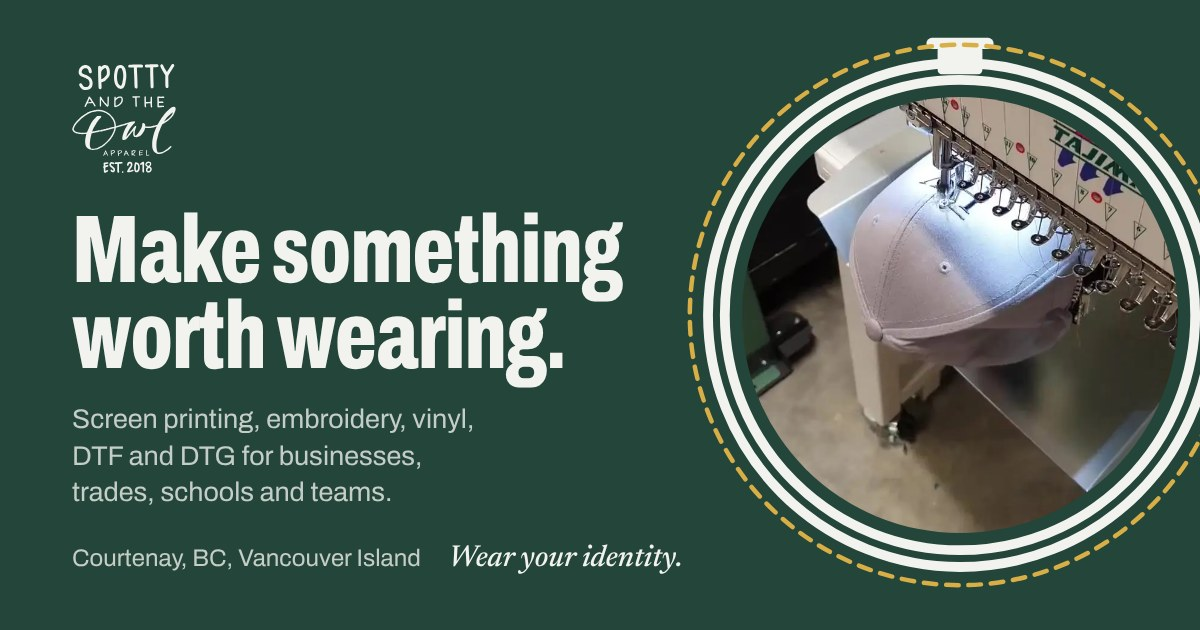
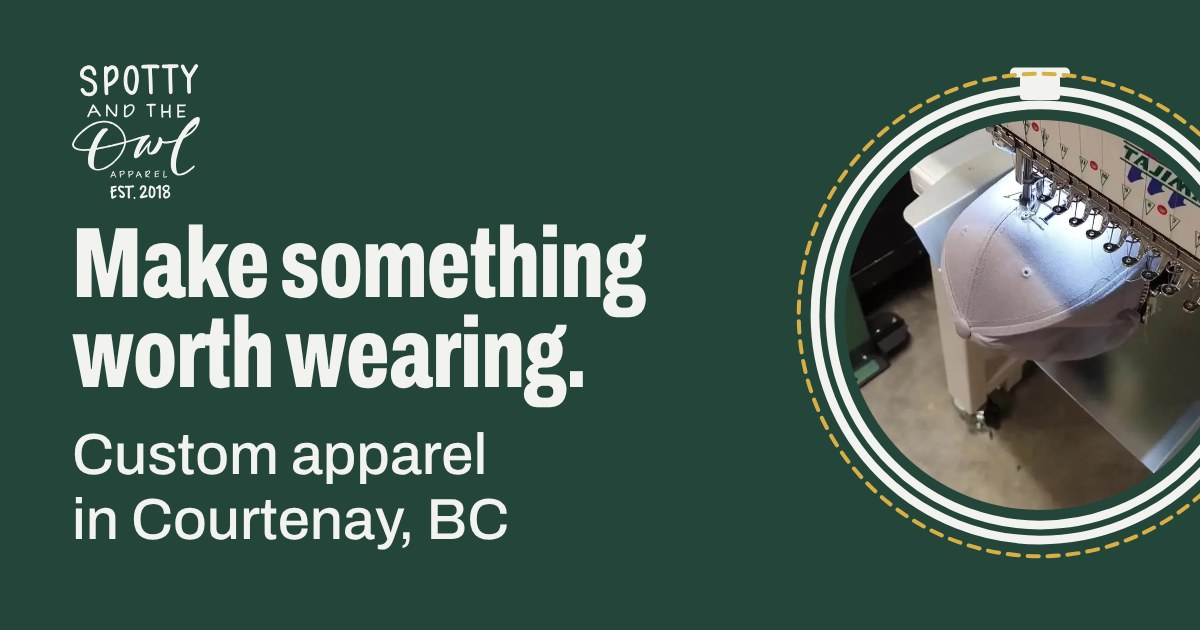
Share card: bigger, shorter text so it reads at preview size
Option A: the headline plus "Custom apparel in Courtenay, BC" at 58px
(was a 27px sentence and a 24px footer line, which shrank to 6-11px in
feeds and text messages). Image version bumped to v=2 on every page so
apps fetch the new card. README notes the 42px minimum.

Claude-Session: https://claude.ai/code/session_01TeP7oMVvDquNMcumT4gy2c

diff --git a/scripts/share-card.html b/scripts/share-card.html
@@ -1,7 +1,7 @@
 <!doctype html>
 <html lang="en">
 <head>
-<!-- Source for assets/share-card.jpg. Open through a local server, set the browser window to 1200 x 630, screenshot, save as JPEG. See README "Share card". -->
+<!-- Source for assets/share-card.jpg. Open through a local server, set the browser window to 1200 x 630, screenshot, save as JPEG. See README "Share card". Keep every line of text at 42px or larger: previews show the card at about 300 to 500px wide. -->
 <meta charset="utf-8">
 <style>
   @font-face { font-family: "Archivo"; src: url("../assets/fonts/archivo.woff2") format("woff2"); font-weight: 100 900; font-stretch: 62% 125%; }
@@ -26,22 +26,19 @@
 </style>
 </head>
 <body>
-  <div class="card">
-    <div class="mark" aria-hidden="true"></div>
-    <div style="align-self:center">
-      <h1>Make something worth wearing.</h1>
-      <p class="sub">Screen printing, embroidery, vinyl, DTF and DTG for businesses, trades, schools and teams.</p>
-    </div>
-    <div class="foot"><span>Courtenay, BC, Vancouver Island</span><em>Wear your identity.</em></div>
-  </div>
-  <div class="hoop">
+<style>
+ .card{grid-template-rows:auto 1fr} .mark{width:128px}
+ h1{font-size:100px;max-width:6.4em} .sub{font-size:58px;line-height:1.12;margin-top:24px;color:var(--bone);max-width:10em;font-weight:500}
+</style>
+<div class="card"><div class="mark"></div>
+ <div style="align-self:center"><h1>Make something worth wearing.</h1>
+ <p class="sub">Custom apparel in Courtenay, BC</p></div></div>
+<div class="hoop" style="right:-90px;width:500px;height:500px">
     <img src="../assets/video/stitching-poster.webp" alt="">
     <svg viewBox="0 0 400 400" aria-hidden="true">
-      <circle class="ring" cx="200" cy="200" r="168"/>
-      <circle class="ring" cx="200" cy="200" r="180"/>
+      <circle class="ring" cx="200" cy="200" r="168"/><circle class="ring" cx="200" cy="200" r="180"/>
       <g class="clasp"><rect x="184" y="8" width="32" height="20" rx="3"/><rect x="176" y="2" width="48" height="8" rx="4"/></g>
       <circle class="stitch" cx="200" cy="200" r="193"/>
     </svg>
   </div>
-</body>
-</html>
+</body></html>

diff --git a/services.html b/services.html
@@ -20,7 +20,7 @@
       content="Screen printing, embroidery, heat-transfer vinyl, DTF and DTG printing, blank apparel sourcing and promotional products in Courtenay, BC."
     />
     <meta property="og:url" content="https://mstonehouse.github.io/spotty-and-the-owl/services.html" />
-    <meta property="og:image" content="https://mstonehouse.github.io/spotty-and-the-owl/assets/share-card.jpg?v=1" />
+    <meta property="og:image" content="https://mstonehouse.github.io/spotty-and-the-owl/assets/share-card.jpg?v=2" />
     <meta property="og:image:width" content="1200" />
     <meta property="og:image:height" content="630" />
     <meta

diff --git a/artwork.html b/artwork.html
@@ -20,7 +20,7 @@
       content="Artwork guidelines for custom apparel: preferred vector formats, accepted files, and how to prepare your logo for printing or embroidery."
     />
     <meta property="og:url" content="https://mstonehouse.github.io/spotty-and-the-owl/artwork.html" />
-    <meta property="og:image" content="https://mstonehouse.github.io/spotty-and-the-owl/assets/share-card.jpg?v=1" />
+    <meta property="og:image" content="https://mstonehouse.github.io/spotty-and-the-owl/assets/share-card.jpg?v=2" />
     <meta property="og:image:width" content="1200" />
     <meta property="og:image:height" content="630" />
     <meta

diff --git a/index.html b/index.html
@@ -20,7 +20,7 @@
       content="Custom screen printing, embroidery, vinyl, DTF and DTG printing in Courtenay, BC. Apparel for businesses, trades, schools, sports teams and events."
     />
     <meta property="og:url" content="https://mstonehouse.github.io/spotty-and-the-owl/" />
-    <meta property="og:image" content="https://mstonehouse.github.io/spotty-and-the-owl/assets/share-card.jpg?v=1" />
+    <meta property="og:image" content="https://mstonehouse.github.io/spotty-and-the-owl/assets/share-card.jpg?v=2" />
     <meta property="og:image:width" content="1200" />
     <meta property="og:image:height" content="630" />
     <meta

diff --git a/quote.html b/quote.html
@@ -20,7 +20,7 @@
       content="Request a custom apparel quote from Spotty and the Owl Apparel in Courtenay, BC. Tell us the garments, quantity, method and artwork."
     />
     <meta property="og:url" content="https://mstonehouse.github.io/spotty-and-the-owl/quote.html" />
-    <meta property="og:image" content="https://mstonehouse.github.io/spotty-and-the-owl/assets/share-card.jpg?v=1" />
+    <meta property="og:image" content="https://mstonehouse.github.io/spotty-and-the-owl/assets/share-card.jpg?v=2" />
     <meta property="og:image:width" content="1200" />
     <meta property="og:image:height" content="630" />
     <meta

diff --git a/pricing.html b/pricing.html
@@ -20,7 +20,7 @@
       content="How custom apparel pricing works at Spotty and the Owl: garments, quantity, method, design, placement, setup and turnaround."
     />
     <meta property="og:url" content="https://mstonehouse.github.io/spotty-and-the-owl/pricing.html" />
-    <meta property="og:image" content="https://mstonehouse.github.io/spotty-and-the-owl/assets/share-card.jpg?v=1" />
+    <meta property="og:image" content="https://mstonehouse.github.io/spotty-and-the-owl/assets/share-card.jpg?v=2" />
     <meta property="og:image:width" content="1200" />
     <meta property="og:image:height" content="630" />
     <meta

diff --git a/work.html b/work.html
@@ -20,7 +20,7 @@
       content="Recent custom apparel from Spotty and the Owl: team tees, embroidered caps, company workwear and more, made in Courtenay, BC."
     />
     <meta property="og:url" content="https://mstonehouse.github.io/spotty-and-the-owl/work.html" />
-    <meta property="og:image" content="https://mstonehouse.github.io/spotty-and-the-owl/assets/share-card.jpg?v=1" />
+    <meta property="og:image" content="https://mstonehouse.github.io/spotty-and-the-owl/assets/share-card.jpg?v=2" />
     <meta property="og:image:width" content="1200" />
     <meta property="og:image:height" content="630" />
     <meta

diff --git a/guarantee.html b/guarantee.html
@@ -20,7 +20,7 @@
       content="Our production guarantee, what is not covered, customer-supplied apparel and quantity accuracy policies."
     />
     <meta property="og:url" content="https://mstonehouse.github.io/spotty-and-the-owl/guarantee.html" />
-    <meta property="og:image" content="https://mstonehouse.github.io/spotty-and-the-owl/assets/share-card.jpg?v=1" />
+    <meta property="og:image" content="https://mstonehouse.github.io/spotty-and-the-owl/assets/share-card.jpg?v=2" />
     <meta property="og:image:width" content="1200" />
     <meta property="og:image:height" content="630" />
     <meta

diff --git a/about.html b/about.html
@@ -20,7 +20,7 @@
       content="Spotty and the Owl Apparel is a family-run custom apparel shop in Courtenay, BC, established in 2018."
     />
     <meta property="og:url" content="https://mstonehouse.github.io/spotty-and-the-owl/about.html" />
-    <meta property="og:image" content="https://mstonehouse.github.io/spotty-and-the-owl/assets/share-card.jpg?v=1" />
+    <meta property="og:image" content="https://mstonehouse.github.io/spotty-and-the-owl/assets/share-card.jpg?v=2" />
     <meta property="og:image:width" content="1200" />
     <meta property="og:image:height" content="630" />
     <meta

diff --git a/README.md b/README.md
@@ -76,6 +76,8 @@ When someone shares a link to the site (Facebook, iMessage, Slack, LinkedIn...),
 
 **The addresses must be absolute.** Link previews are made by the sharing app's own server, which fetches the image by its full address, so the tags say `https://mstonehouse.github.io/spotty-and-the-owl/...`. When the site moves to Dan's own domain, replace that address in all eight pages with the new one in a single search-and-replace.
 
+**Keep the words big.** Apps show the card at about 300 to 500 pixels wide, so everything on it shrinks to a third or less. Keep every line of text at 42px or larger in the source, and keep it to a few words.
+
 **Changing the card.** Its source is `scripts/share-card.html`. Serve the folder (`python -m http.server 8000`), open `http://localhost:8000/scripts/share-card.html` in a 1200 x 630 window, take a screenshot and save it over `assets/share-card.jpg`. Then raise the number in `share-card.jpg?v=1` on every page (to `v=2`, and so on): apps keep their old copy of a preview picture, and a new address makes them fetch the new one.
 
 **Checking a preview.** Facebook's Sharing Debugger (developers.facebook.com/tools/debug) shows exactly what Facebook sees for a link and has a button to make it fetch again.
